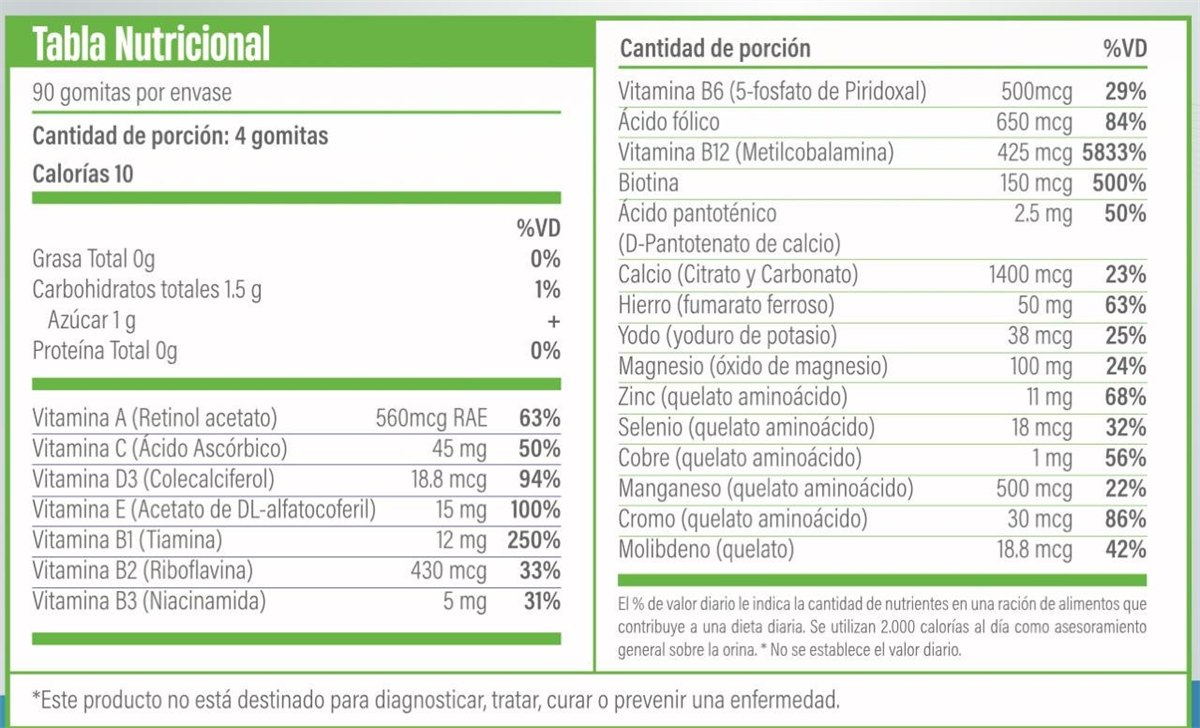
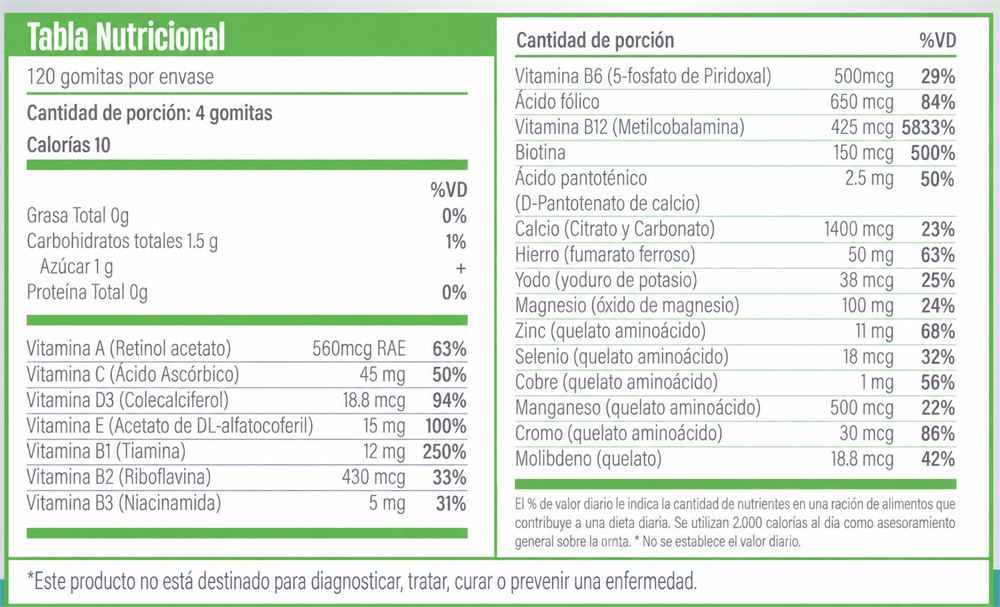
Tablas nutricionales del multivitaminico, chocolate y colageno
- Nueva foto de la tabla del multivitaminico B&N (ya dice 120
  gomitas por envase): vuelve a la galeria de la tienda y se
  suma al catalogo. Los valores por porcion coinciden uno a uno
  con los que ya estaban publicados
- La proteina en polvo chocolate usa la tabla de la vainilla,
  que es la misma formula
- Colageno Hidrolizado B&N: foto de la etiqueta (la mando el
  proveedor) + tabla transcrita de 23 filas en zb-catalogo.js,
  y su modo de uso pasa a "1 scoop (10 g) al dia", que es lo que
  dice el envase
- Los 13 productos del catalogo ya tienen tabla nutricional
- El encabezado "ZONA BARIATRICA / CATALOGO" queda centrado

Claude-Session: https://claude.ai/code/session_01FkBJYdQMNmidQkmV7MyqdX

diff --git a/catalogo.html b/catalogo.html
@@ -68,8 +68,9 @@ button { font:inherit; cursor:pointer; border:0; background:none; color:inherit;
 
 /* ---------- CABECERA ---------- */
 .cab { background:var(--blanco); border-bottom:1px solid var(--borde); }
-.cab .envoltura { display:flex; align-items:center; gap:10px; height:52px; }
-.cab img { width:30px; height:30px; object-fit:contain; }
+.cab .envoltura { display:flex; align-items:center; justify-content:center; gap:10px; height:56px; }
+.cab img { width:32px; height:32px; object-fit:contain; }
+.cab-marca, .cab-titulo { text-align:center; }
 .cab-marca { font-size:15px; font-weight:800; letter-spacing:.04em; color:var(--azul-osc); line-height:1.1; }
 .cab-titulo { font-size:13px; font-weight:700; letter-spacing:.06em; color:var(--texto-3); line-height:1.1; }
 
@@ -626,14 +627,12 @@ const P = {
   wheyVainilla: { uso:"Disolver 3 scoops (48 g) en 250 ml de agua o leche.", marca:"Bari&Nutrition", nombre:"Proteína en Polvo Vainilla 1.5 kg", precio:280, bn:true,
     foto:"img/cat-whey-vainilla.jpg", tabla:"img/tn-whey-vainilla.jpg", chips:["30 g proteína","Sin lactosa","Sin gluten","0% azúcar"] },
   wheyChocolate: { uso:"Disolver 3 scoops (48 g) en 250 ml de agua o leche.", marca:"Bari&Nutrition", nombre:"Proteína en Polvo Chocolate 1.5 kg", precio:280, bn:true,
-    foto:"img/cat-whey-chocolate.jpg", chips:["30 g proteína","Sin lactosa","Sin gluten","0% azúcar"] },
+    foto:"img/cat-whey-chocolate.jpg", tabla:"img/tn-whey-vainilla.jpg", chips:["30 g proteína","Sin lactosa","Sin gluten","0% azúcar"] },
   isolate: { uso:"Vía oral. Adultos: 1 porción (25 g, 1 cuchara) al día disuelta en 200-300 ml de agua.", marca:"Nutrifath", nombre:"Whey Protein Isolate 1 kg — Sabor Neutro", precio:295, nuevo:true,
     foto:"img/nf-whey-isolate.jpg", tabla:"img/tn-nutrifath.jpg", chips:["23 g proteína","Sin lactosa","Sin gluten","Sabor neutro"] },
 
-  /* multivit: su foto de tabla dice "90 gomitas por envase" y el envase
-     dice 120. No se pone hasta que el proveedor mande la etiqueta nueva. */
   multivit: { uso:"4 gomitas al día.", marca:"Bari&Nutrition", nombre:"Multivitamínico en Gomitas — 120 und", precio:150, bn:true,
-    foto:"img/cat-gomita-multivit.jpg", chips:["120 gomitas","23 vitaminas","Sin azúcar añadida"] },
+    foto:"img/cat-gomita-multivit.jpg", tabla:"img/tn-multivitaminico.jpg", chips:["120 gomitas","23 vitaminas","Sin azúcar añadida"] },
   b12: { uso:"3 gomitas masticables al día.", marca:"Bari&Nutrition", nombre:"B12 + Ácido Fólico en Gomitas — 90 und", precio:150, bn:true,
     foto:"img/cat-gomita-b12.jpg", tabla:"img/tn-b12.jpg", chips:["90 gomitas","Sabor piña","Sin azúcar añadida"] },
   hierro: { uso:"1 gomita masticable al día. Vía oral.", marca:"Bari&Nutrition", nombre:"Hierro 45 mg + Vitamina C en Gomitas — 30 und", precio:150, bn:true,
@@ -646,7 +645,7 @@ const P = {
     foto:"img/cat-bf-tropical.jpg", tabla:"img/tn-bf-multivit.jpg", chips:["120 tabletas","Masticables","Sin gluten","1 al día"] },
 
   colageno: { uso:"Seguir el modo de preparación del envase. La cantidad que te corresponde la define tu médico o tu nutricionista.", marca:"Bari&Nutrition", nombre:"Colágeno Hidrolizado 500 g", precio:150, bn:true, nuevo:true,
-    foto:"img/cat-colageno-bn.jpg", chips:["Calcio + vitamina D","Sabor arándano","500 g"] },
+    foto:"img/cat-colageno-bn.jpg", tabla:"img/tn-colageno-bn.jpg", chips:["Calcio + vitamina D","Sabor arándano","500 g"] },
   fibra: { uso:"1 scoop (5 g) al día disuelto en agua o bebida de preferencia.", marca:"Bari&Nutrition", nombre:"Fibra Soluble 320 g", precio:85, bn:true,
     foto:"img/cat-fibra.jpg", tabla:"img/tn-fibra.jpg", chips:["320 g","A base de maíz","Sin azúcar"] }
 };

diff --git a/zb-catalogo.js b/zb-catalogo.js
@@ -288,6 +288,36 @@ const tn = {
     nota: "Valores por porción de 25g transcritos de la etiqueta del envase; la etiqueta no declara % de valor diario. Vía oral: 1 porción al día disuelta en 200 a 300ml de agua. Fabricado en una instalación que también procesa leche, soya, trigo, huevo, maní, frutos secos, pescado y mariscos. No recomendado para personas con alergia a los lácteos. Almacenar a no más de 30 °C."
   },
 
+  colageno_bn: {
+    srv: "1 scoop (10 g)", srvs: "50 servicios por envase",
+    filas: [
+      ["Calorías","40",""],
+      ["Grasa total","0 g",""],
+      ["Grasa saturada","0 g",""],
+      ["Colesterol","0 mg",""],
+      ["Sodio","66.6 mg",""],
+      ["Carbohidratos totales","0 g",""],
+      ["Fibra dietética","0 g",""],
+      ["Azúcares","0 g",""],
+      ["Proteínas","9.3 g",""],
+      ["Calcio","1,200 mg",""],
+      ["Fósforo","14.5 mg",""],
+      ["Magnesio","15 mg",""],
+      ["Vitamina C","8.53 mg",""],
+      ["Vitamina D","75 mcg (3,000 UI)",""],
+      ["Niacina (B3)","1.8 mg",""],
+      ["Vitamina E","1.2 mg",""],
+      ["Ácido pantoténico (B5)","0.6 mg",""],
+      ["Vitamina B6 (piridoxina)","0.2 mg",""],
+      ["Riboflavina","1.5 mg",""],
+      ["Tiamina","0.13 mg",""],
+      ["Ácido fólico (B9)","20 mcg",""],
+      ["Biotina (B8)","15 mcg",""],
+      ["Vitamina B12 (cianocobalamina)","0.2 mcg",""]
+    ],
+    nota: "Sabor arándanos. Valores tomados de la etiqueta del envase."
+  },
+
   bf_multivit: {
     srv: "1 tableta masticable", srvs: "120 porciones por envase",
     filas: [
@@ -576,11 +606,7 @@ const productos = [
     tags:["23 vitaminas y minerales","Multisabor","Sin azúcares","Sin colorantes"],
     precio:150,
     img: BN+"gomita-multivit.jpg",
-    /* La foto de la tabla (img/tn-multivitaminico.jpg) dice "90 gomitas por
-       envase" y el frente del envase dice 120: se saco de la galeria el
-       11-09-2026 hasta que el proveedor mande la etiqueta actualizada.
-       Los valores por porcion no cambian y siguen en la tabla de abajo. */
-    galeria: [BN+"gomita-multivit.jpg"],
+    galeria: [BN+"gomita-multivit.jpg", "img/tn-multivitaminico.jpg"],
     uso:"4 gomitas al día.",
     tn: tn.multivit },
 
@@ -618,7 +644,9 @@ const productos = [
     tags:["Con calcio + vitamina D","Sabor arándano","Rápida absorción","500g"],
     precio:150,
     img: BN+"colageno.jpg",
-    uso:"Seguir el modo de preparación del envase. La cantidad que te corresponde la define tu médico o tu nutricionista." },
+    galeria: [BN+"colageno.jpg", "img/tn-colageno-bn.jpg"],
+    uso:"1 scoop (10 g) al día. La cantidad que te corresponde la define tu médico o tu nutricionista.",
+    tn: tn.colageno_bn },
 
   // LVL DRINK INDIVIDUALES
   { id:"li1", tipo:"lvl", marcaTipo:"lvl",
